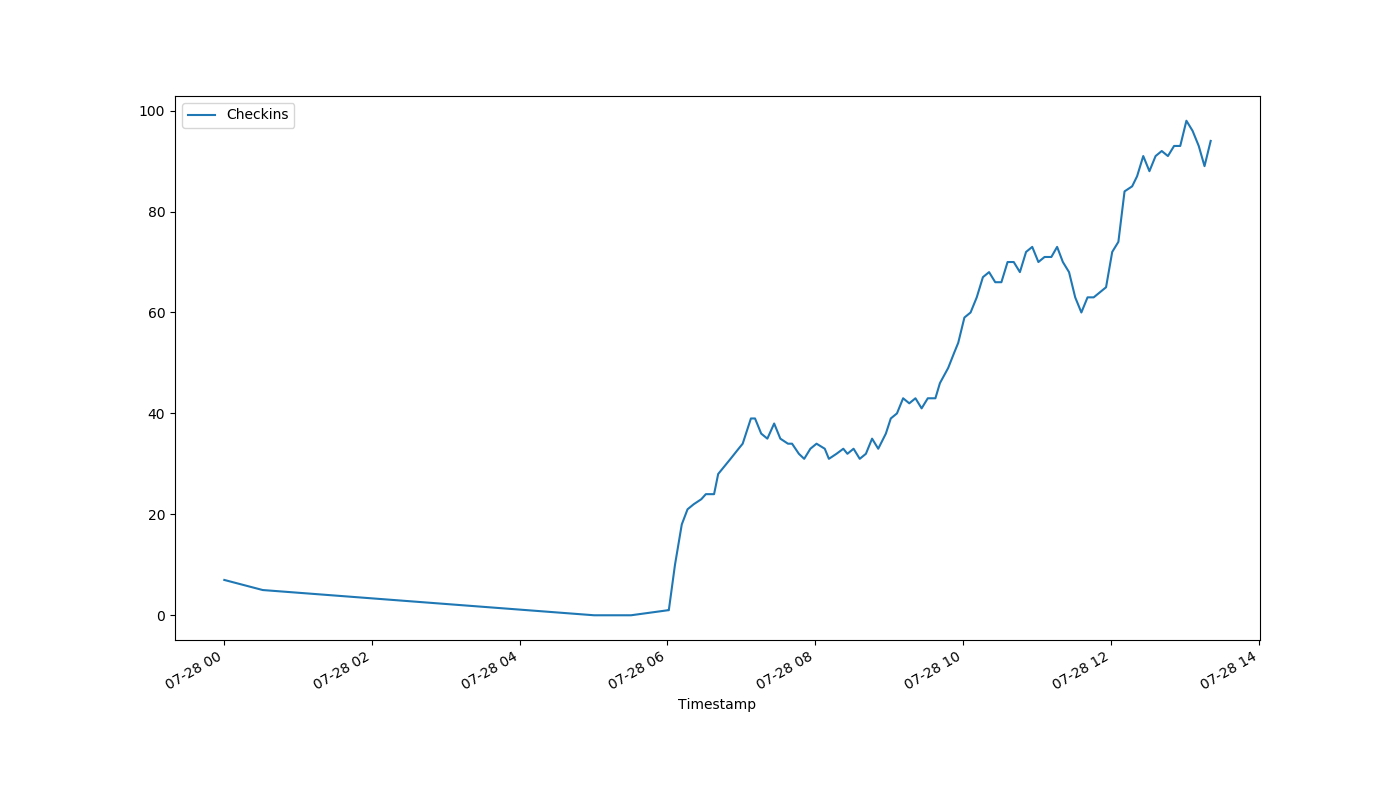
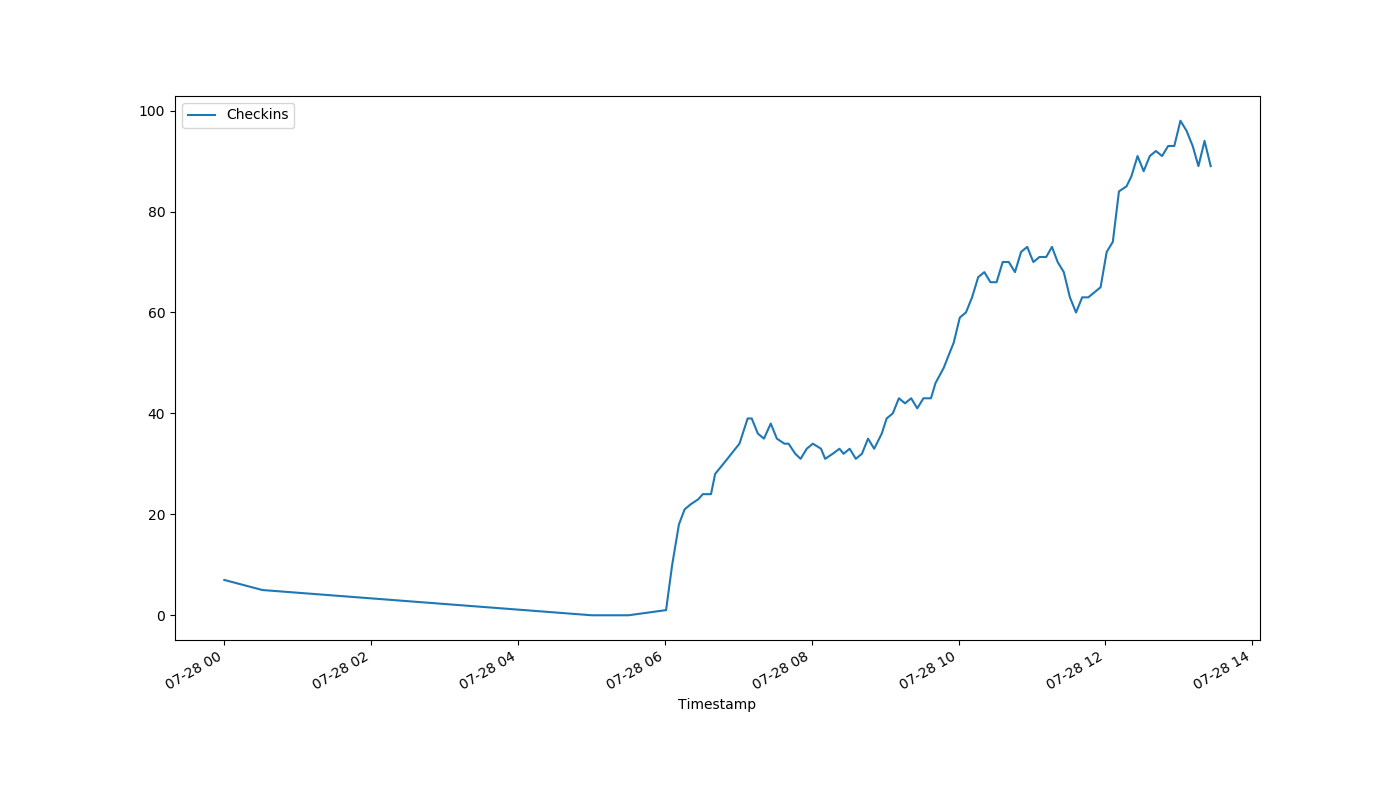
auto-Jul-28-13:27:43

diff --git a/index.html b/index.html
@@ -1,1 +1,1 @@
-<!DOCTYPE html><html><head><meta http-equiv="refresh" content="30"><link rel='stylesheet' href='holmcurrent.css'></head><body><p id='count'>94</p><div id='graph-wrap'><img id='graph' src='holmgraph-Jul-28.png'></div><p id='updated'>Last updated 13:21:02 / 13:21:00</p></body></html>
+<!DOCTYPE html><html><head><meta http-equiv="refresh" content="30"><link rel='stylesheet' href='holmcurrent.css'></head><body><p id='count'>89</p><div id='graph-wrap'><img id='graph' src='holmgraph-Jul-28.png'></div><p id='updated'>Last updated 13:26:03 / 13:26:00</p></body></html>
